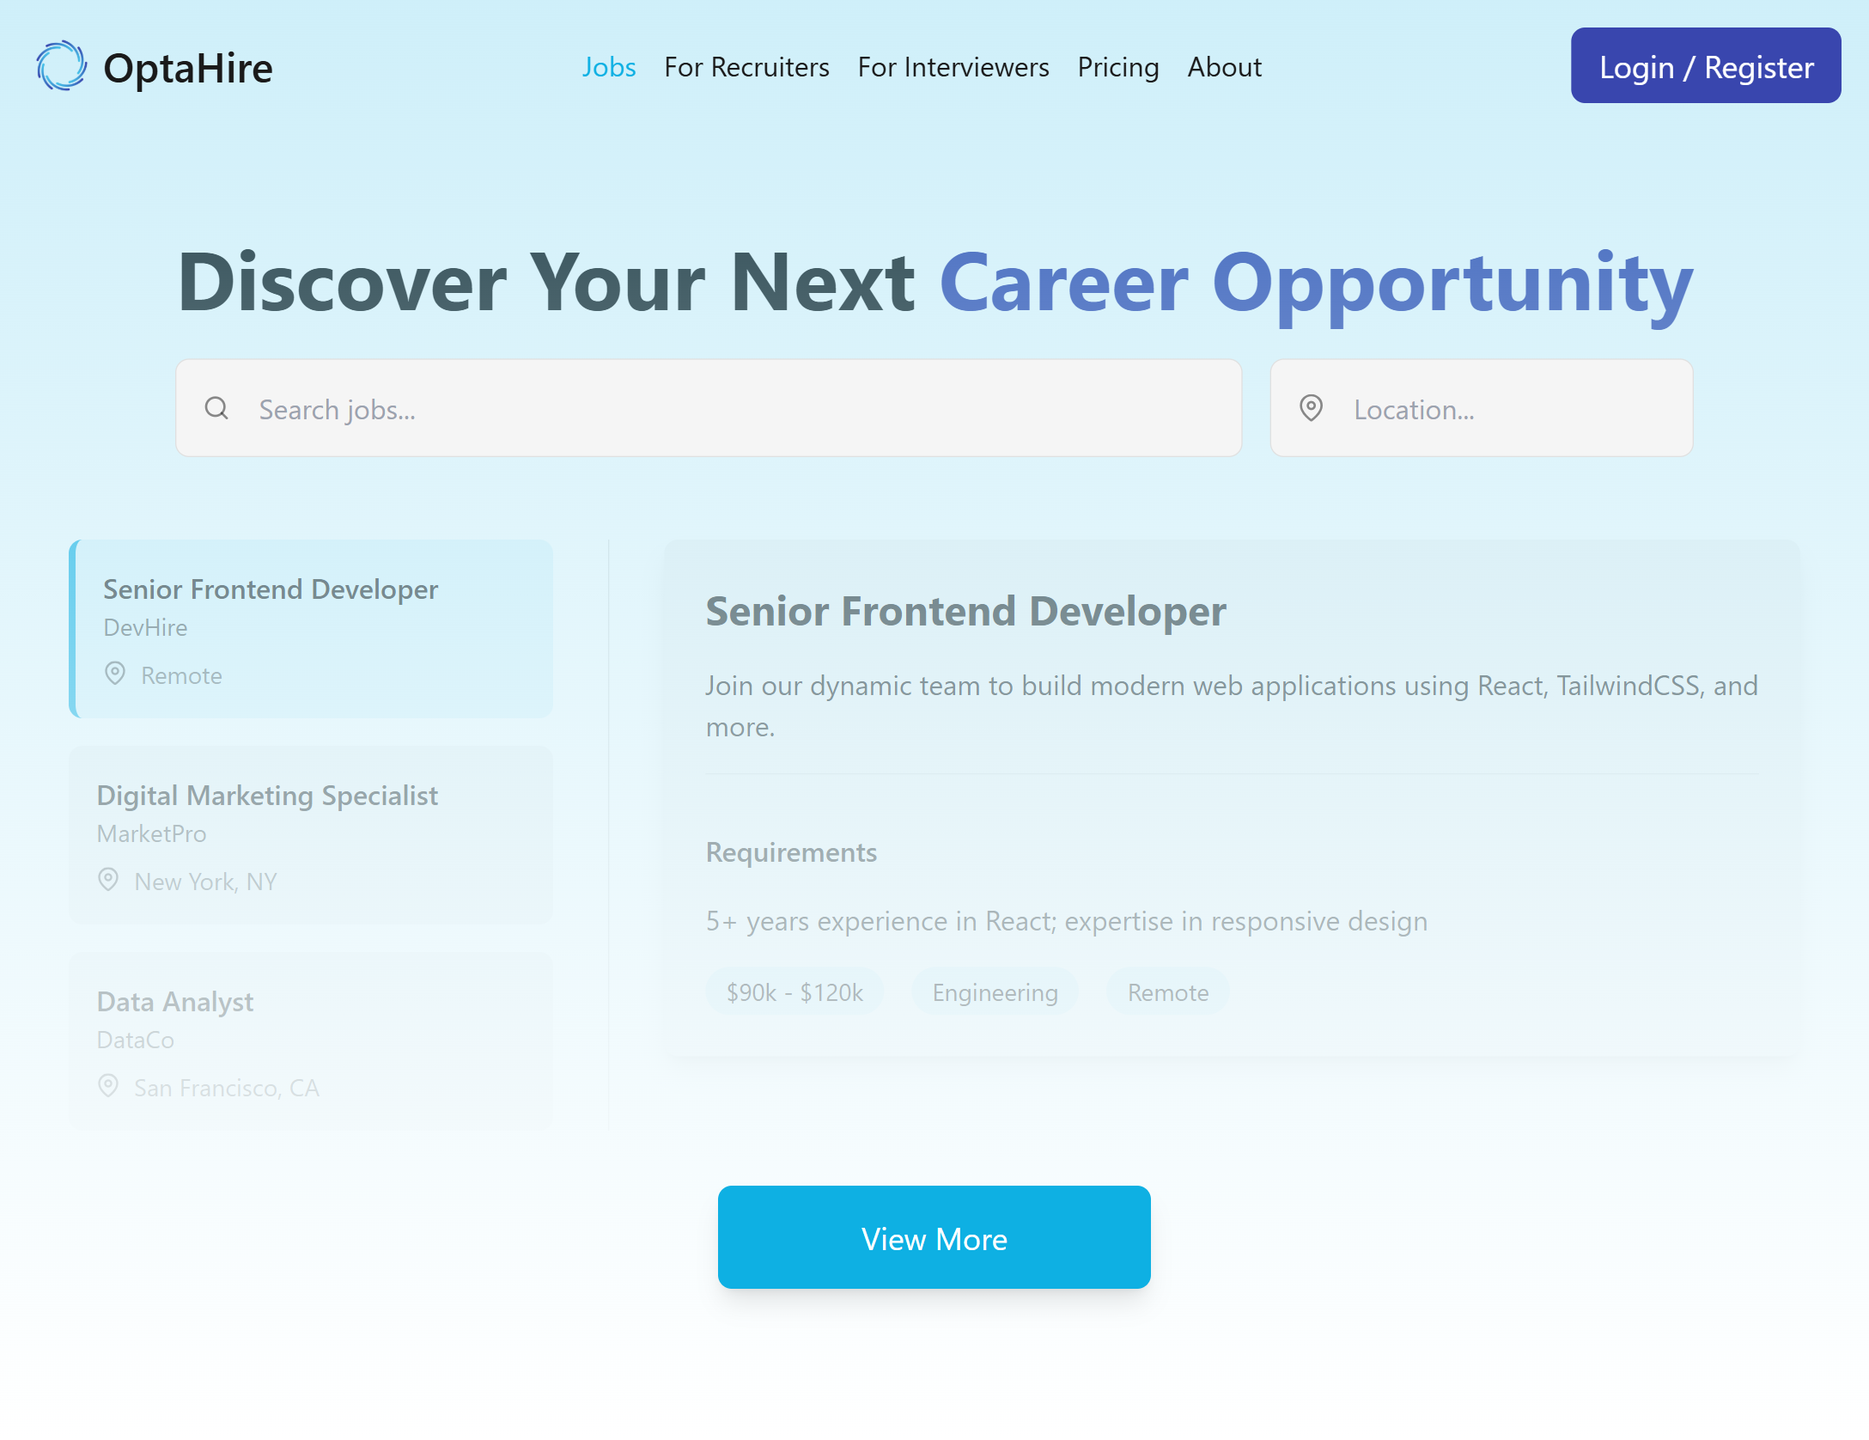
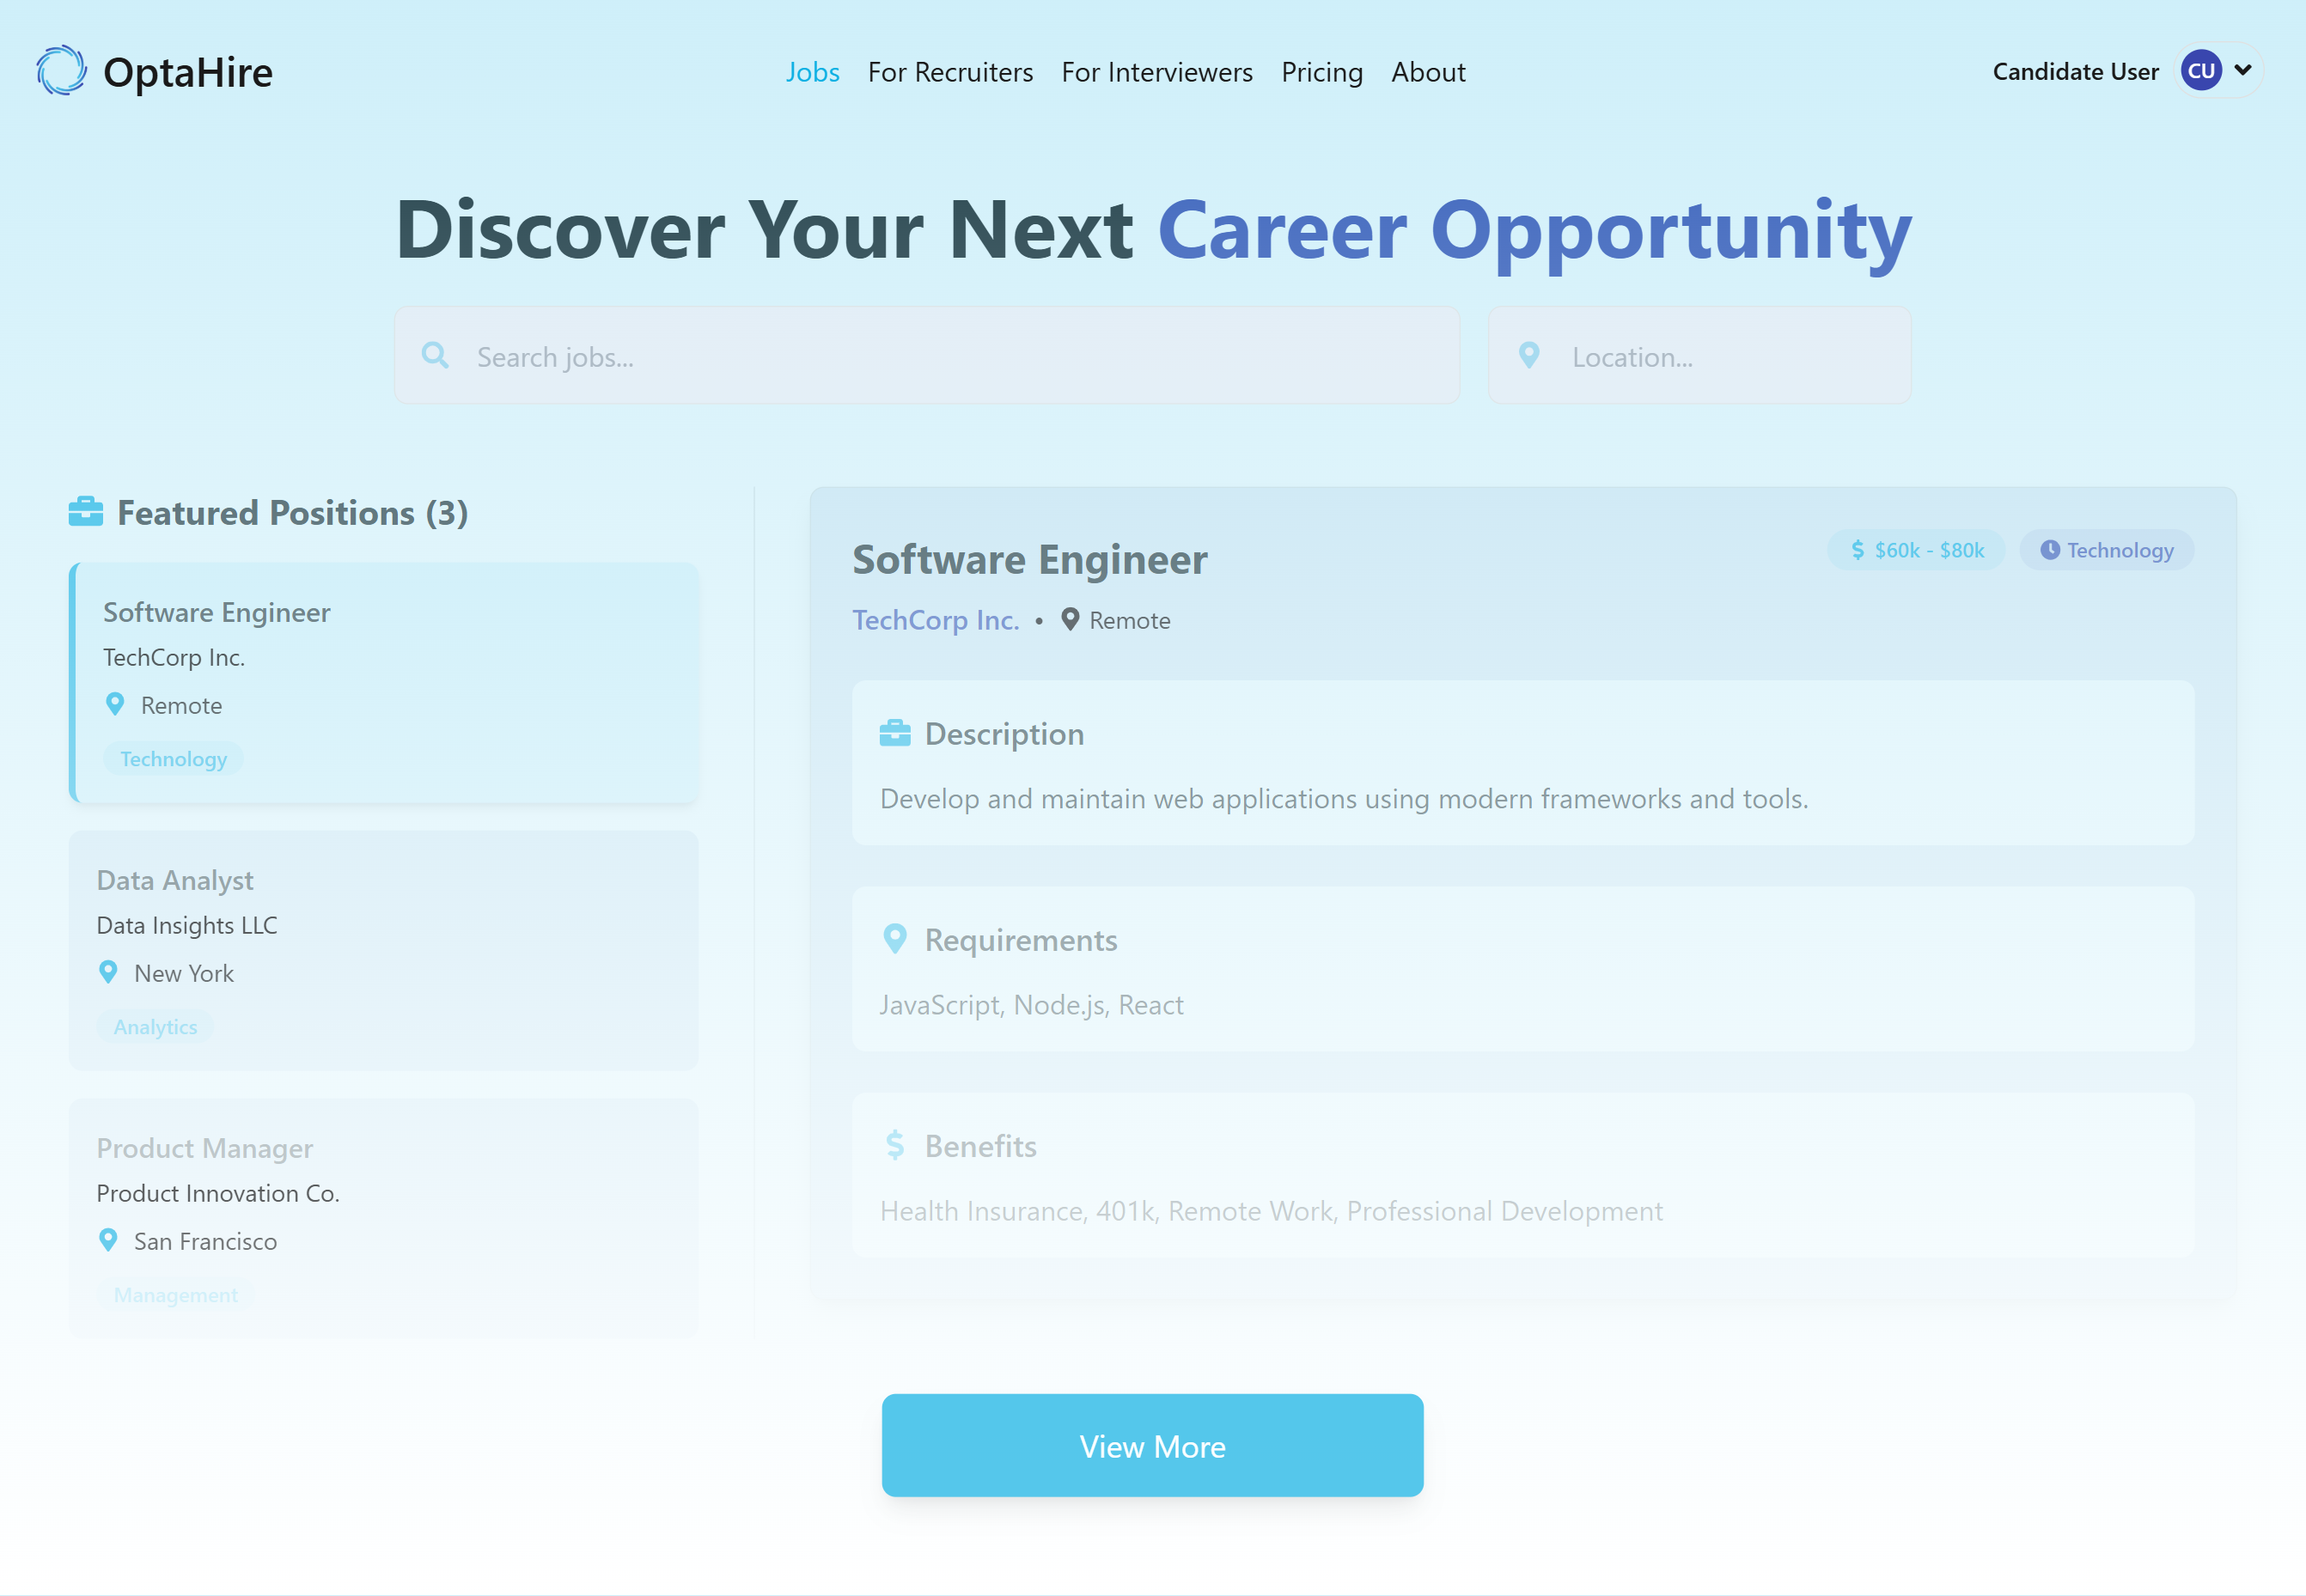
Added: CandidateJobsScreen component for job listings; implemented search and filter functionality, integrated job details display, and enhanced UI with loading and error handling.

diff --git a/client/src/pages/candidate/JobsScreen.jsx b/client/src/pages/candidate/JobsScreen.jsx
@@ -10,18 +10,19 @@ import {
 import { useDispatch, useSelector } from 'react-redux';
 import { useNavigate } from 'react-router-dom';
 
-import ErrorMsg from '../components/ErrorMsg';
-import Loader from '../components/Loader';
+import ErrorMsg from '../../components/ErrorMsg';
+import Loader from '../../components/Loader';
 
-import { useGetAllJobsQuery } from '../features/job/jobApi';
-import { setSelectedJob } from '../features/job/jobSlice';
+import { useGetAllJobsQuery } from '../../features/job/jobApi';
+import { setSelectedJob } from '../../features/job/jobSlice';
 
 export default function JobsScreen() {
-  const [displayJobs, setDisplayJobs] = useState([]);
+  const [filteredJobs, setFilteredJobs] = useState([]);
+  const [searchTerm, setSearchTerm] = useState('');
+  const [location, setLocation] = useState('');
 
   const navigate = useNavigate();
   const dispatch = useDispatch();
-
   const user = useSelector((state) => state.auth.userInfo);
   const selectedJob = useSelector((state) => state.job.selectedJob);
 
@@ -35,38 +36,43 @@ export default function JobsScreen() {
     }
   };
 
-  const handleViewMore = () => {
-    if (user) {
-      navigate('/candidate/dashboard');
-    } else {
-      navigate('/auth/login');
+  useEffect(() => {
+    if (jobsData) {
+      const filtered = jobsData.jobs.filter((job) => {
+        const jobTitle = job.title.toLowerCase();
+        const jobLocation = job.location.toLowerCase();
+        const search = searchTerm.toLowerCase();
+        const loc = location.toLowerCase();
+
+        return (
+          (jobTitle.includes(search) || jobLocation.includes(search)) &&
+          (jobLocation.includes(loc) || jobTitle.includes(loc))
+        );
+      });
+      setFilteredJobs(filtered);
     }
-  };
+  }, [jobsData, searchTerm, location]);
 
   useEffect(() => {
-    if (jobsData && jobsData.jobs.length > 0) {
-      const topThreeJobs = jobsData.jobs.slice(0, 3);
-      setDisplayJobs(topThreeJobs);
-
-      dispatch(setSelectedJob(topThreeJobs[0]));
+    if (!user) {
+      dispatch(setSelectedJob(null));
     }
-  }, [jobsData, dispatch]);
+  }, [user, dispatch]);
 
   return (
     <>
       <Helmet>
-        <title>Jobs - OptaHire</title>
+        <title>Job Listings [Candidate]- OptaHire</title>
         <meta
           name="description"
-          content="Explore job opportunities and find your next career move with OptaHire. Search for jobs by title, location, and more."
+          content="Explore job opportunities tailored for you. Search by title, location, and more to find your perfect fit."
         />
         <meta
           name="keywords"
-          content="jobs, career, job search, employment, opportunities, OptaHire"
+          content="job listings, job search, career opportunities, find jobs, job openings, employment, job vacancies"
         />
       </Helmet>
-      <section className="relative min-h-screen flex flex-col items-center py-24 px-4 bg-light-background dark:bg-dark-background animate-fadeIn">
-        <div className="absolute inset-0 z-0 bg-gradient-to-b from-light-primary/20 to-light-background dark:from-dark-primary/20 dark:to-dark-background" />
+      <section className="min-h-screen flex flex-col items-center py-24 px-4 bg-light-background dark:bg-dark-background animate-fadeIn">
         <div className="max-w-7xl mx-auto text-center animate-slideUp">
           <h1 className="text-3xl sm:text-4xl md:text-5xl font-bold text-light-text dark:text-dark-text mb-6">
             Discover Your Next{' '}
@@ -80,7 +86,8 @@ export default function JobsScreen() {
               <input
                 type="text"
                 placeholder="Search jobs..."
-                disabled
+                value={searchTerm}
+                onChange={(e) => setSearchTerm(e.target.value)}
                 className="w-full pl-12 pr-4 py-4 rounded-lg bg-light-surface dark:bg-dark-surface border border-light-border dark:border-dark-border text-light-text dark:text-dark-text focus:ring-2 focus:ring-light-primary dark:focus:ring-dark-primary focus:outline-none transition-all duration-300 hover:shadow-md"
               />
             </div>
@@ -89,7 +96,8 @@ export default function JobsScreen() {
               <input
                 type="text"
                 placeholder="Location..."
-                disabled
+                value={location}
+                onChange={(e) => setLocation(e.target.value)}
                 className="w-full pl-12 pr-4 py-4 rounded-lg bg-light-surface dark:bg-dark-surface border border-light-border dark:border-dark-border text-light-text dark:text-dark-text focus:ring-2 focus:ring-light-primary dark:focus:ring-dark-primary focus:outline-none transition-all duration-300 hover:shadow-md"
               />
             </div>
@@ -102,15 +110,15 @@ export default function JobsScreen() {
           </div>
         ) : error ? (
           <ErrorMsg errorMsg={error} />
-        ) : displayJobs.length > 0 ? (
+        ) : filteredJobs.length > 0 ? (
           <div className="grid grid-cols-1 md:grid-cols-3 gap-8 w-full max-w-7xl mx-auto">
             <div className="space-y-4 pr-0 md:pr-8 md:border-r md:border-light-border dark:md:border-dark-border animate-slideInLeft">
               <h2 className="text-xl font-bold text-light-text dark:text-dark-text mb-4 flex items-center">
                 <FaBriefcase className="mr-2 text-light-primary dark:text-dark-primary" />
-                Available Positions ({displayJobs.length})
+                Available Positions ({filteredJobs.length})
               </h2>
 
-              {displayJobs.map((job, index) => (
+              {filteredJobs.map((job, index) => (
                 <div
                   key={job.id}
                   onClick={() => handleJobClick(job)}
@@ -203,6 +211,15 @@ export default function JobsScreen() {
                       </p>
                     </div>
                   </div>
+
+                  {user && (
+                    <button
+                      className="mt-6 w-full py-3 bg-light-primary dark:bg-dark-primary text-white rounded-lg hover:bg-light-secondary dark:hover:bg-dark-secondary transition-all duration-300 font-medium hover:shadow-lg transform hover:-translate-y-1"
+                      onClick={() => navigate(`/apply/${selectedJob.id}`)}
+                    >
+                      Apply Now
+                    </button>
+                  )}
                 </div>
               ) : (
                 <div className="h-64 flex items-center justify-center text-light-text dark:text-dark-text opacity-50 bg-light-surface dark:bg-dark-surface rounded-lg border border-light-border dark:border-dark-border animate-pulse">
@@ -221,15 +238,6 @@ export default function JobsScreen() {
             </p>
           </div>
         )}
-
-        <div className="w-full flex justify-center">
-          <button
-            onClick={handleViewMore}
-            className="my-8 w-full sm:w-1/2 md:w-1/4 text-lg bg-light-primary dark:bg-dark-primary text-light-background dark:text-dark-background px-12 py-4 rounded-lg shadow-lg hover:opacity-90"
-          >
-            View More
-          </button>
-        </div>
       </section>
     </>
   );

diff --git a/client/src/components/ui/mainLayout/InputField.jsx b/client/src/components/ui/mainLayout/InputField.jsx
@@ -1,4 +1,6 @@
 import PropTypes from 'prop-types';
+import { useState } from 'react';
+import { FaEye, FaEyeSlash } from 'react-icons/fa';
 
 const InputField = ({
   id,
@@ -12,11 +14,54 @@ const InputField = ({
   options,
   checked,
 }) => {
+  const [showPassword, setShowPassword] = useState(false);
+
   const sharedClasses = `w-full p-4 bg-light-background dark:bg-dark-background border rounded-lg text-light-text dark:text-dark-text focus:ring-2 focus:ring-light-primary dark:focus:ring-dark-primary focus:outline-none transition-all duration-300 peer ${
     validationMessage
       ? 'border-red-500'
       : 'border-light-border dark:border-dark-border'
   }`;
+
+  if (type === 'password') {
+    return (
+      <div className="relative w-full mb-6">
+        <div className="relative">
+          <input
+            type={showPassword ? 'text' : 'password'}
+            id={id}
+            value={value}
+            onChange={onChange}
+            onKeyDown={onKeyDown}
+            placeholder=""
+            className={sharedClasses}
+            required
+            aria-invalid={validationMessage ? 'true' : 'false'}
+            aria-describedby={validationMessage ? `${id}-error` : undefined}
+          />
+          <label
+            htmlFor={id}
+            className="absolute left-4 top-4 text-light-text dark:text-dark-text text-sm transition-all duration-300 transform -translate-y-1/2 scale-75 origin-top-left peer-placeholder-shown:translate-y-0 peer-placeholder-shown:scale-100 peer-placeholder-shown:top-4 peer-placeholder-shown:text-base peer-focus:top-4 peer-focus:text-normal peer-focus:text-light-primary dark:peer-focus:text-dark-primary"
+          >
+            {label}
+          </label>
+          <button
+            type="button"
+            className="absolute inset-y-0 right-0 pr-3 flex items-center text-light-text dark:text-dark-text"
+            onClick={() => setShowPassword(!showPassword)}
+            aria-label={showPassword ? 'Hide password' : 'Show password'}
+          >
+            {showPassword ? <FaEyeSlash size={18} /> : <FaEye size={18} />}
+          </button>
+        </div>
+
+        {validationMessage && (
+          <p id={`${id}-error`} className="absolute mt-1 text-red-500 text-sm">
+            {validationMessage}
+          </p>
+        )}
+      </div>
+    );
+  }
 
   const renderInput = () => {
     switch (type) {

diff --git a/client/src/main.jsx b/client/src/main.jsx
@@ -40,6 +40,8 @@ import RecruiterLayout from './layouts/RecruiterLayout';
 import AdminDashboardScreen from './pages/admin/DashboardScreen.jsx';
 import AdminUsersScreen from './pages/admin/UsersScreen.jsx';
 
+import CandidateJobsScreen from './pages/candidate/JobsScreen.jsx';
+
 import LoginScreen from './pages/auth/LoginScreen.jsx';
 import RegisterScreen from './pages/auth/RegisterScreen.jsx';
 import ResetPwdScreen from './pages/auth/ResetPwdScreen.jsx';
@@ -72,6 +74,7 @@ const router = createBrowserRouter(
 
       <Route path="candidate" element={<CandidateLayout />}>
         <Route index element={<ComingSoon />} />
+        <Route path="jobs" element={<CandidateJobsScreen />} />
         <Route path="*" element={<ComingSoon />} />
       </Route>
 
